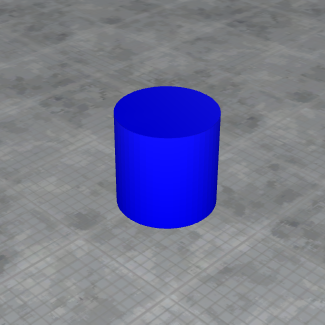
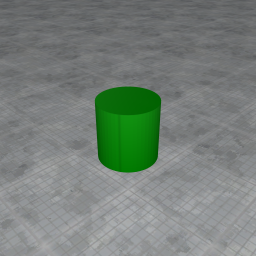
Integrated Pyramid sample from PullRequest #2 from Mario Lung

diff --git a/SeeingSharp/Multimedia/Objects/_Construction/VertexStructureSurface.Builders.cs b/SeeingSharp/Multimedia/Objects/_Construction/VertexStructureSurface.Builders.cs
@@ -222,6 +222,73 @@ namespace SeeingSharp.Multimedia.Objects
         }
 
         /// <summary>
+        /// Create a 4 Side Pyramid
+        /// </summary>
+        public BuiltVerticesRange BuildPyramidFullV(Vector3 lowerMiddle, float width, float height, Color4 color)
+        {
+            var halfWidth = width / 2f;
+            var start = new Vector3(lowerMiddle.X - halfWidth, lowerMiddle.Y, lowerMiddle.Z - halfWidth);
+            var dest = start + new Vector3(width, 0f, width);
+            var centerTopCoordination = new Vector3((dest.X + start.X) / 2, start.Y + height, (dest.Z + start.Z) / 2);
+
+            BuildRect4V(
+                new Vector3(start.X, dest.Y, start.Z),
+                new Vector3(start.X, dest.Y, dest.Z),
+                new Vector3(dest.X, dest.Y, dest.Z),
+                new Vector3(dest.X, dest.Y, start.Z),
+                new Vector3(0f, -1f, 0f),
+                color);
+
+            BuildTriangleV(
+                new Vector3(start.X, dest.Y, start.Z),
+                new Vector3(dest.X, dest.Y, start.Z),
+                centerTopCoordination,
+                color);
+            BuildTriangleV(
+                new Vector3(start.X, dest.Y, dest.Z),
+                new Vector3(start.X, dest.Y, start.Z),
+                centerTopCoordination,
+                color);
+            BuildTriangleV(
+                new Vector3(dest.X, dest.Y, dest.Z),
+                new Vector3(start.X, dest.Y, dest.Z),
+                centerTopCoordination,
+                color);
+            BuildTriangleV(
+                new Vector3(dest.X, dest.Y, start.Z),
+                new Vector3(dest.X, dest.Y, dest.Z),
+                centerTopCoordination,
+                color);
+
+            return new BuiltVerticesRange(Owner, Owner.CountVertices - 4, 4);
+        }
+
+        /// <summary>
+        /// Build a Triangle.
+        /// </summary>
+        public BuiltVerticesRange BuildTriangleV(Vector3 pointA, Vector3 pointB, Vector3 pointC, Color4 color)
+        {
+            var texX = 1f;
+            var texY = 1f;
+
+            if (m_tileSize != Vector2.Zero)
+            {
+                texX = (pointB - pointA).Length() / m_tileSize.X;
+                texY = (pointC - pointB).Length() / m_tileSize.Y;
+            }
+
+            var vertex = new Vertex(pointA, color, new Vector2(0f, texY));
+
+            var a = Owner.AddVertex(vertex);
+            var b = Owner.AddVertex(vertex.Copy(pointB, new Vector2(texX, texY)));
+            var c = Owner.AddVertex(vertex.Copy(pointC, new Vector2(texX, 0f)));
+
+            AddTriangleAndCalculateNormalsFlat(a, c, b);
+
+            return new BuiltVerticesRange(Owner, Owner.CountVertices - 4, 4);
+        }
+
+        /// <summary>
         /// Builds a cone into the structure with correct texture coordinates and normals.
         /// </summary>
         /// <param name="bottomMiddle">Coordinate of bottom middle.</param>
@@ -477,8 +544,22 @@ namespace SeeingSharp.Multimedia.Objects
         /// </summary>
         public BuiltVerticesRange BuildShpere(int tDiv, int pDiv, double radius, Color4 color)
         {
-            var startVertex = Owner.CountVertices;
+            Vector3 SphereGetPosition(double theta, double phi)
+            {
+                var x = radius * Math.Sin(theta) * Math.Sin(phi);
+                var y = radius * Math.Cos(phi);
+                var z = radius * Math.Cos(theta) * Math.Sin(phi);
 
+                return new Vector3((float)x, (float)y, (float)z);
+            }
+            Vector2 SphereGetTextureCoordinate(double theta, double phi)
+            {
+                return new Vector2(
+                    (float)(theta / (2 * Math.PI)),
+                    (float)(phi / Math.PI));
+            }
+
+            var startVertex = Owner.CountVertices;
             var dt = Math.PI * 2 / tDiv;
             var dp = Math.PI / pDiv;
 
@@ -491,7 +572,7 @@ namespace SeeingSharp.Multimedia.Objects
                     // we want to start the mesh on the x axis
                     var theta = ti * dt;
 
-                    var position = SphereGetPosition(theta, phi, radius);
+                    var position = SphereGetPosition(theta, phi);
                     var vertex = new Vertex(
                         position,
                         color,
@@ -998,28 +1079,6 @@ namespace SeeingSharp.Multimedia.Objects
                 m_corners[loop - 1] = edge2;
                 m_corners[loop - 2] = edge3;
             }
-        }
-
-        /// <summary>
-        /// Helper method for spehere creation.
-        /// </summary>
-        private Vector3 SphereGetPosition(double theta, double phi, double radius)
-        {
-            var x = radius * Math.Sin(theta) * Math.Sin(phi);
-            var y = radius * Math.Cos(phi);
-            var z = radius * Math.Cos(theta) * Math.Sin(phi);
-
-            return new Vector3((float)x, (float)y, (float)z);
-        }
-
-        /// <summary>
-        /// Helper method for spehere creation.
-        /// </summary>
-        private Vector2 SphereGetTextureCoordinate(double theta, double phi)
-        {
-            return new Vector2(
-                (float)(theta / (2 * Math.PI)),
-                (float)(phi / Math.PI));
         }
     }
 }

diff --git a/Samples/SeeingSharp.SampleContainer/Primitives3D/_04_ColoredPyramid/ColoredPyramidSample.cs b/Samples/SeeingSharp.SampleContainer/Primitives3D/_04_ColoredPyramid/ColoredPyramidSample.cs
@@ -29,15 +29,18 @@ using SeeingSharp.Multimedia.Drawing3D;
 using SeeingSharp.Multimedia.Objects;
 using SharpDX;
 
-namespace SeeingSharp.SampleContainer.Primitives3D._03_ColoredSphere
+namespace SeeingSharp.SampleContainer.Primitives3D._04_ColoredPyramid
 {
     [SampleDescription(
-        "Colored Sphere", 3, nameof(Primitives3D),
+        "Colored Pyramid", 4, nameof(Primitives3D),
         "PreviewImage.png",
-        "https://github.com/RolandKoenig/SeeingSharp2/tree/master/Samples/SeeingSharp.SampleContainer/Primitives3D/_03_ColoredSphere",
+        "https://github.com/RolandKoenig/SeeingSharp2/tree/master/Samples/SeeingSharp.SampleContainer/Primitives3D/_04_ColoredPyramid",
         typeof(SampleSettingsWith3D))]
-    public class ColoredSphereSample : SampleBase
+    public class ColoredPyramidSample : SampleBase
     {
+        /// <summary>
+        /// Called when the sample has to startup.
+        /// </summary>
         public override async Task OnStartupAsync(RenderLoop targetRenderLoop, SampleSettings settings)
         {
             targetRenderLoop.EnsureNotNull(nameof(targetRenderLoop));
@@ -46,33 +49,27 @@ namespace SeeingSharp.SampleContainer.Primitives3D._03_ColoredSphere
             var scene = targetRenderLoop.Scene;
             var camera = targetRenderLoop.Camera;
 
-            await targetRenderLoop.Scene.ManipulateSceneAsync(manipulator =>
+            await targetRenderLoop.Scene.ManipulateSceneAsync((manipulator) =>
             {
                 // Create floor
                 BuildStandardFloor(
                     manipulator, Scene.DEFAULT_LAYER_NAME);
 
-                // Create Sphere geometry resource
-                var resGeometry = manipulator.AddResource(
+                // Create Pyramid geometry resource
+                var resPalletGeometry = manipulator.AddResource(
                     () => new GeometryResource(
-                        new SphereGeometryFactory
-                        {
-                            TDiv = 30,
-                            PDiv = 30,
-                            Radius = 0.5f
-                        }));
+                        new PyramidGeometryFactory()));
 
                 // Create Sphere object
-                var sphereObject = manipulator.AddGeneric(resGeometry);
-                sphereObject.Color = Color4Ex.GreenColor;
-                sphereObject.Position = new Vector3(0f, 0.5f, 0f);
-                sphereObject.EnableShaderGeneratedBorder();
-                sphereObject.BuildAnimationSequence()
+                var pyramidObject = manipulator.AddGeneric(resPalletGeometry);
+                pyramidObject.Color = Color4Ex.GreenColor;
+                pyramidObject.EnableShaderGeneratedBorder();
+                pyramidObject.BuildAnimationSequence()
                     .RotateEulerAnglesTo(new Vector3(0f, EngineMath.RAD_180DEG, 0f), TimeSpan.FromSeconds(2.0))
                     .WaitFinished()
                     .RotateEulerAnglesTo(new Vector3(0f, EngineMath.RAD_360DEG, 0f), TimeSpan.FromSeconds(2.0))
                     .WaitFinished()
-                    .CallAction(() => sphereObject.RotationEuler = Vector3.Zero)
+                    .CallAction(() => pyramidObject.RotationEuler = Vector3.Zero)
                     .ApplyAndRewind();
             });
 

diff --git a/SeeingSharp/Multimedia/Objects/_GeometryFactories/PyramidGeometryFactory.cs b/SeeingSharp/Multimedia/Objects/_GeometryFactories/PyramidGeometryFactory.cs
@@ -1,0 +1,47 @@
+using System;
+using System.Collections.Generic;
+using System.Text;
+using SeeingSharp.Util;
+using SharpDX;
+
+namespace SeeingSharp.Multimedia.Objects
+{
+    public class PyramidGeometryFactory : GeometryFactory
+    {
+        public override VertexStructure BuildStructure(GeometryBuildOptions buildOptions)
+        {
+            var matProperties = new MaterialProperties
+            {
+                Key = Material
+            };
+
+            var result = new VertexStructure();
+            result.CreateOrGetExistingSurface(matProperties)
+                .BuildPyramidFullV(
+                    new Vector3(0f, 0f, 0f),
+                    this.Width,
+                    this.Height,
+                    Color4Ex.Transparent);
+
+            return result;
+        }
+
+        public NamedOrGenericKey Material
+        {
+            get;
+            set;
+        }
+
+        public float Width
+        {
+            get;
+            set;
+        } = 1f;
+
+        public float Height
+        {
+            get;
+            set;
+        } = 1f;
+    }
+}

diff --git a/Samples/SeeingSharp.SampleContainer/Primitives3D/_01_ColoredCylinder/ColoredCylinderSample.cs b/Samples/SeeingSharp.SampleContainer/Primitives3D/_01_ColoredCylinder/ColoredCylinderSample.cs
@@ -62,8 +62,7 @@ namespace SeeingSharp.SampleContainer.Primitives3D._01_ColoredCylinder
 
                 // Create cylinder object
                 var cylinderObject = manipulator.AddGeneric(resGeometry);
-                cylinderObject.Color = Color4Ex.BlueColor;
-                cylinderObject.Position = new Vector3(0f, 0.5f, 0f);
+                cylinderObject.Color = Color4Ex.GreenColor;
                 cylinderObject.EnableShaderGeneratedBorder();
                 cylinderObject.BuildAnimationSequence()
                     .RotateEulerAnglesTo(new Vector3(0f, EngineMath.RAD_180DEG, 0f), TimeSpan.FromSeconds(2.0))

diff --git a/Samples/SeeingSharp.SampleContainer/Primitives3D/_02_ColoredCone/ColoredConeSample.cs b/Samples/SeeingSharp.SampleContainer/Primitives3D/_02_ColoredCone/ColoredConeSample.cs
@@ -62,8 +62,7 @@ namespace SeeingSharp.SampleContainer.Primitives3D._02_ColoredCone
 
                 // Create cone object
                 var coneObject = manipulator.AddGeneric(resGeometry);
-                coneObject.Color = Color4Ex.BlueColor;
-                coneObject.Position = new Vector3(0f, 0.5f, 0f);
+                coneObject.Color = Color4Ex.GreenColor;
                 coneObject.EnableShaderGeneratedBorder();
                 coneObject.BuildAnimationSequence()
                     .RotateEulerAnglesTo(new Vector3(0f, EngineMath.RAD_180DEG, 0f), TimeSpan.FromSeconds(2.0))

diff --git a/SeeingSharp/Multimedia/Objects/_GeometryFactories/SphereGeometryFactory.cs b/SeeingSharp/Multimedia/Objects/_GeometryFactories/SphereGeometryFactory.cs
@@ -49,6 +49,6 @@ namespace SeeingSharp.Multimedia.Objects
         {
             get;
             set;
-        } = 1f;
+        } = 0.5f;
     }
 }
